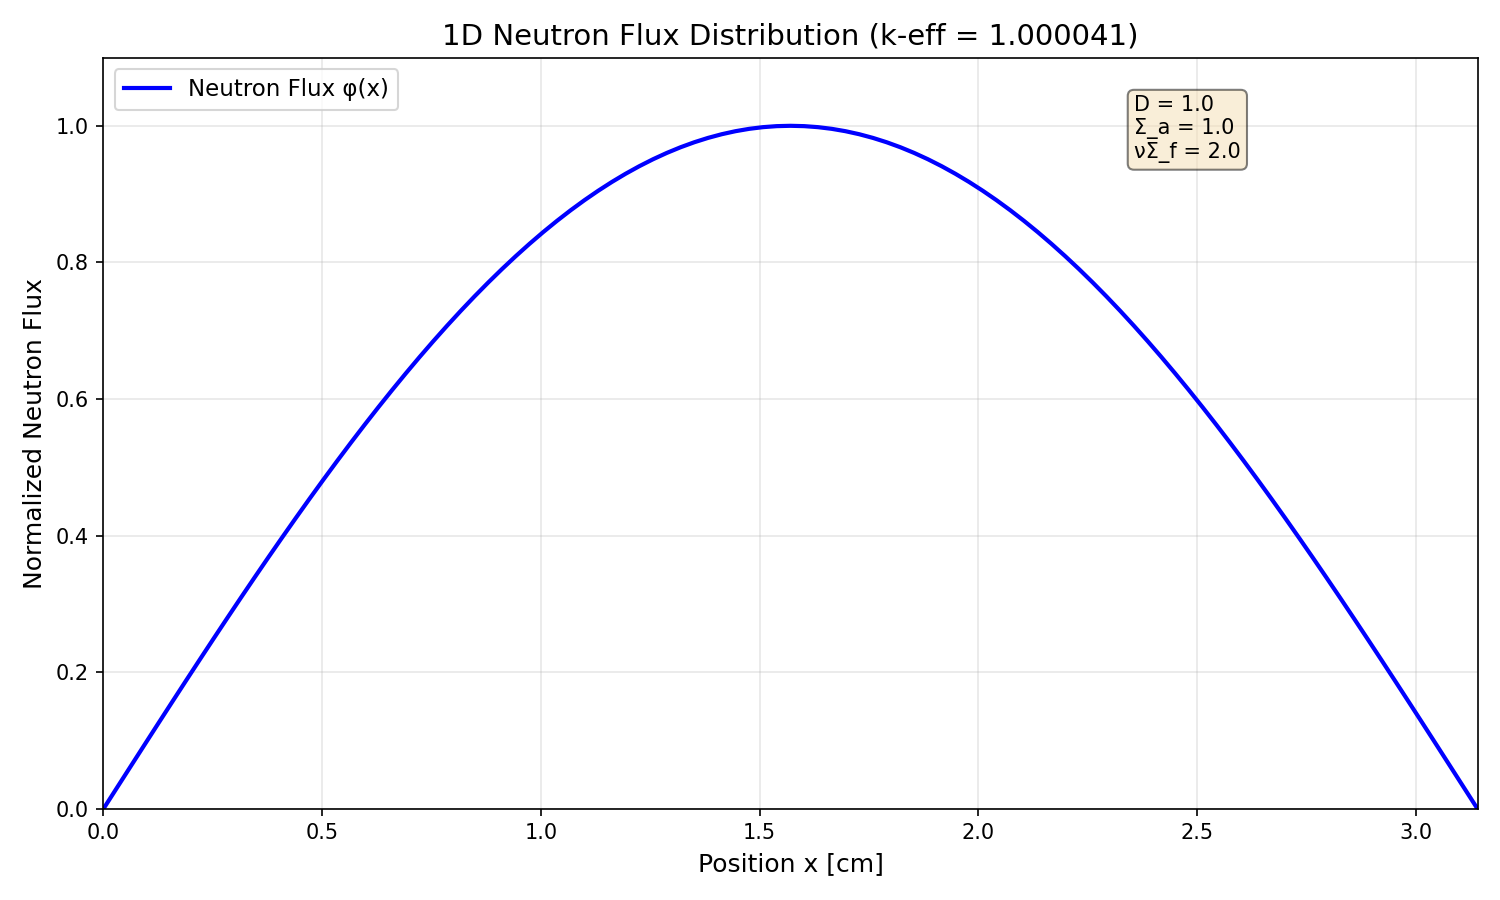
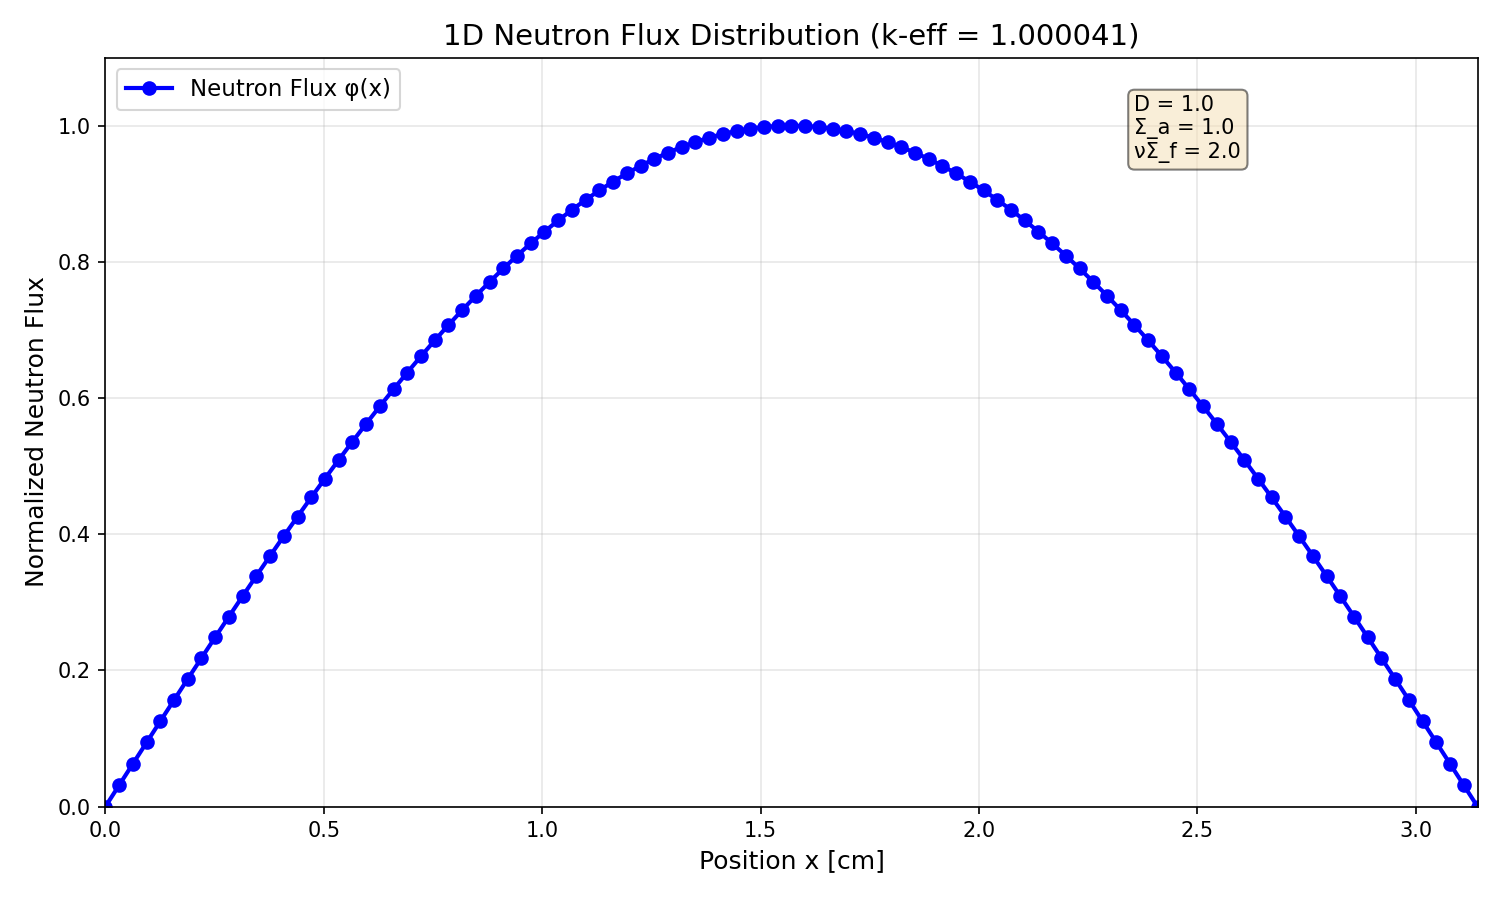
Update neutron flux plot to show data points
Changed the plot style in main.py to display markers ('b-o') for neutron flux data points. Updated neutron_flux_1d.png to reflect the new plot style.

diff --git a/main.py b/main.py
@@ -97,7 +97,7 @@ print(f"Flux at center (x={slab_length/2:.1f} cm) = {flux_full[n_points//2]:.6f}
 
 # Plot the flux distribution
 plt.figure(figsize=(10, 6))
-plt.plot(x, flux_full, 'b-', linewidth=2, label='Neutron Flux φ(x)')
+plt.plot(x, flux_full, 'b-o', linewidth=2, label='Neutron Flux φ(x)')
 plt.xlabel('Position x [cm]', fontsize=12)
 plt.ylabel('Normalized Neutron Flux', fontsize=12)
 plt.title(f'1D Neutron Flux Distribution (k-eff = {k_eff:.6f})', fontsize=14)
